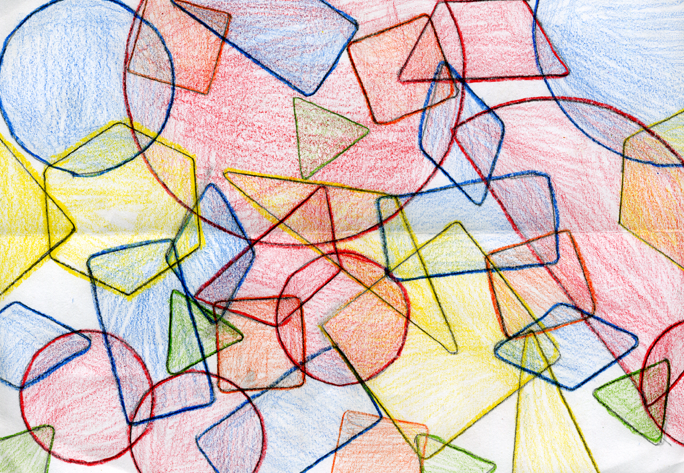
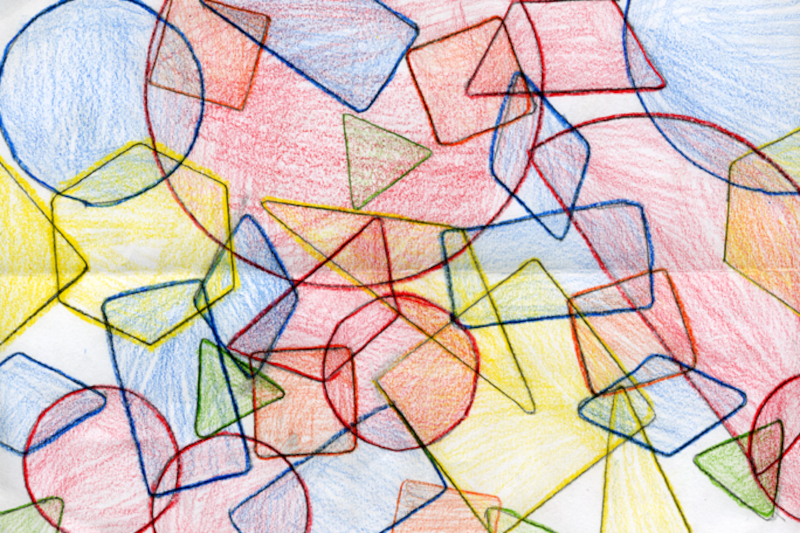
Uniformize size of kaleidoscop images

diff --git a/apps/kaleidoskop/app.html b/apps/kaleidoskop/app.html
@@ -37,11 +37,11 @@
             defaultAppearance: {},
             images: {
               bild: "img/bild.png",
-              bild2: "img/bild2.png",
-              bild3: "img/bild3.png",
+              // bild2: "img/bild2.png",
+              // bild3: "img/bild3.png",
               bild4: "img/bild4.png",
-              bild4X: "img/bild4X.png",
-              bildX: "img/bildX.png",
+              // bild4X: "img/bild4X.png",
+              // bildX: "img/bildX.png",
               coin: "img/coin.jpg",
               beach: "img/beach.png",
             },
@@ -51,10 +51,11 @@
                 background: "rgba(0,0,0,0)",
                 transform: [
                   {
-                    visibleRect: [
-                      -24.77777777777778, 20.944444444444443,
-                      32.111111111111114, -21.72222222222222,
-                    ],
+                    // visibleRect: [
+                    //   -24.77777777777778, 20.944444444444443,
+                    //   32.111111111111114, -21.72222222222222,
+                    // ],
+                    visibleRect: [-20, 20, 32, -21],
                   },
                 ],
                 width: 1560,

diff --git a/apps/kaleidoskop/cdy/csinit.cs b/apps/kaleidoskop/cdy/csinit.cs
@@ -5,8 +5,8 @@ type=1;
 sel=1;
 
 images=[
-[(28,-4),"bild",.4],
-[(28,-8),"coin",.7],
+[(28,-4),"bild",.5],
+[(28,-8),"coin",.5],
 [(28,-12),"beach",.5],
 [(28,-16),"bild4",.5]
 ];
